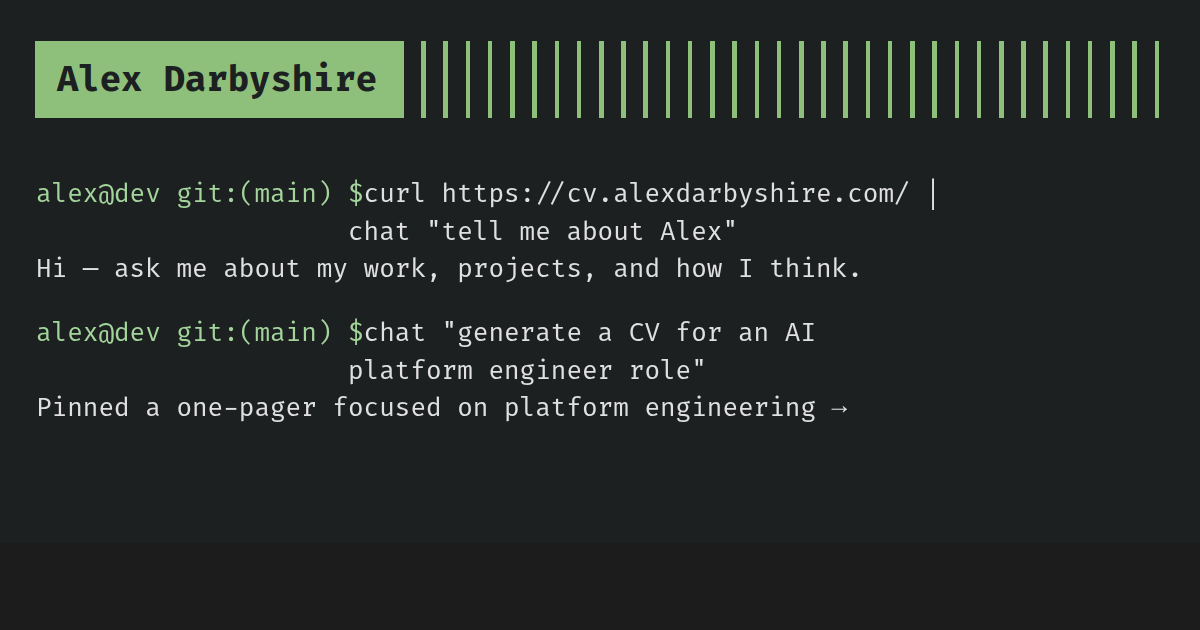
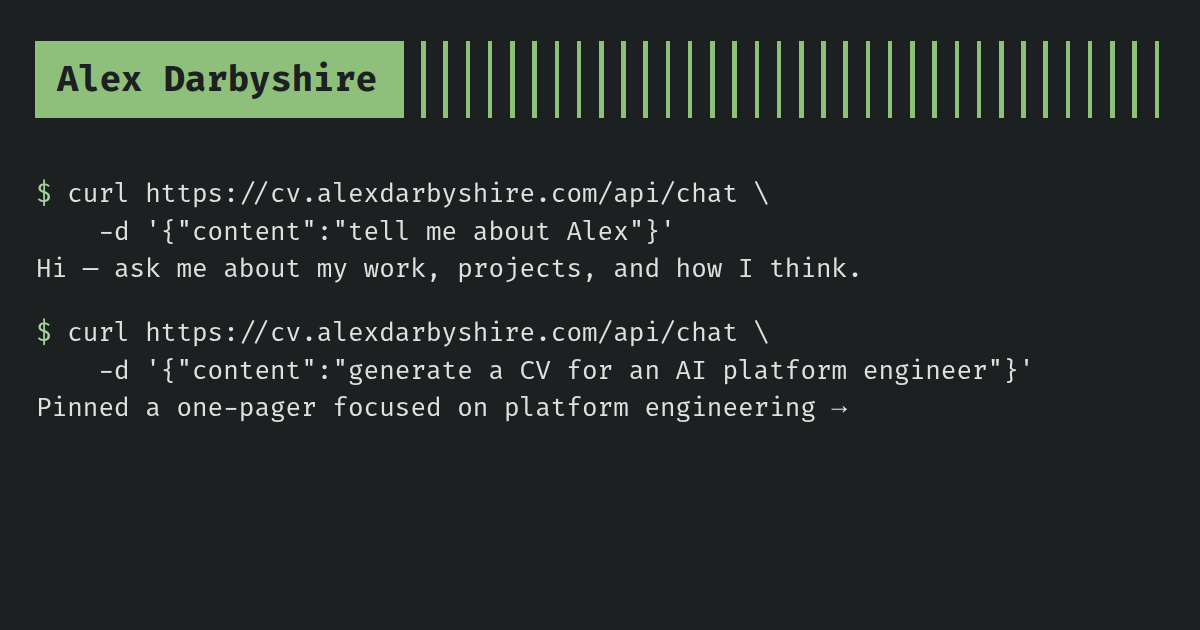
feat(brand): align tokens with blog + regen OG with real-shape curl examples (#44)
* feat(brand): align tokens with blog + nameplate-styled welcome heading

Comparison against alexdarbyshire.com showed cv-chat was reading as
chat-sdk default rather than a sibling of the blog: cooler near-white
foreground vs the blog's Gruvbox cream, slightly different sage-green
hue, and rounded-pill chrome where the blog is typewriter-sharp.

Three token updates and one structural touch:

- --foreground oklch(0.93 0.005 80) → oklch(0.894 0.057 89). Round-trips
  to #ebdbb2 (Gruvbox cream — the blog's body text colour).
- --primary / --ring / --sidebar-primary / --sidebar-ring / --chart-1
  oklch(0.82 0.1 140) → oklch(0.756 0.108 138). Round-trips to #8ec07c
  (the blog's nameplate + link green, also the colour the OG image
  uses).
- --radius 0.625rem → 0.125rem. Sharpens any component that resolves
  through --radius-{sm,md,lg,xl} (cards, dialog content, small chips)
  while leaving rounded-2xl/4xl/full vendor surfaces untouched.
- Greeting + Preview wrap the persona display name in a shadcn-token
  nameplate (bg-primary text-primary-foreground font-bold sharp
  corners), the single most blog-recognisable visual element. Just
  utility classes against the existing tokens — no bespoke CSS, no
  new components.

Verified at 1280×900 and 390×844 against the blog reference. Body
text reads warmer; nameplate matches the blog's "Alex Darbyshire"
plate; composer focus ring picks up the truer sage green via --ring.
[…]

diff --git a/theme/tokens.css b/theme/tokens.css
@@ -23,7 +23,7 @@
     "Fira Code", "JetBrains Mono", Monaco, Consolas, "Ubuntu Mono",
     ui-monospace, monospace;
 
-  --radius: 0.625rem;
+  --radius: 0.125rem;
   --background: oklch(0.985 0 0);
   --foreground: oklch(0.12 0 0);
   --card: oklch(1 0 0);
@@ -71,43 +71,44 @@
 }
 
 /*
- * Dark — the terminal palette. Background ≈ #1c1c1c slate; foreground a warm
- * off-white; primary/ring the sage green (#a3d49b) that the blog's nameplate
- * uses. Hover/accent stays neutral so the green only shows on actions and
- * focus — a single accent stays expressive when used sparingly.
+ * Dark — the terminal palette. Background ≈ #1c1c1c slate; foreground the
+ * Gruvbox cream (#ebdbb2) the blog renders body text in; primary/ring the
+ * sage green (#8ec07c) of the blog's nameplate and links. Hover/accent
+ * stays neutral so the green only shows on actions and focus — a single
+ * accent stays expressive when used sparingly.
  */
 .dark {
   --background: oklch(0.205 0 0);
-  --foreground: oklch(0.93 0.005 80);
+  --foreground: oklch(0.894 0.057 89);
   --card: oklch(0.235 0 0);
-  --card-foreground: oklch(0.93 0.005 80);
+  --card-foreground: oklch(0.894 0.057 89);
   --popover: oklch(0.235 0 0);
-  --popover-foreground: oklch(0.93 0.005 80);
-  --primary: oklch(0.82 0.1 140);
+  --popover-foreground: oklch(0.894 0.057 89);
+  --primary: oklch(0.756 0.108 138);
   --primary-foreground: oklch(0.18 0 0);
   --secondary: oklch(0.27 0 0);
   --secondary-foreground: oklch(0.78 0 0);
   --muted: oklch(0.18 0 0);
   --muted-foreground: oklch(0.62 0 0);
   --accent: oklch(0.27 0 0);
-  --accent-foreground: oklch(0.93 0.005 80);
+  --accent-foreground: oklch(0.894 0.057 89);
   --destructive: oklch(0.7 0.18 25);
   --border: oklch(0.27 0 0);
   --input: oklch(0.27 0 0);
-  --ring: oklch(0.82 0.1 140);
-  --chart-1: oklch(0.82 0.1 140);
+  --ring: oklch(0.756 0.108 138);
+  --chart-1: oklch(0.756 0.108 138);
   --chart-2: oklch(0.7 0.12 200);
   --chart-3: oklch(0.78 0.14 70);
   --chart-4: oklch(0.62 0.18 305);
   --chart-5: oklch(0.65 0.22 25);
   --sidebar: oklch(0.18 0 0);
   --sidebar-foreground: oklch(0.78 0 0);
-  --sidebar-primary: oklch(0.82 0.1 140);
+  --sidebar-primary: oklch(0.756 0.108 138);
   --sidebar-primary-foreground: oklch(0.18 0 0);
   --sidebar-accent: oklch(0.93 0.005 80 / 0.06);
-  --sidebar-accent-foreground: oklch(0.93 0.005 80);
+  --sidebar-accent-foreground: oklch(0.894 0.057 89);
   --sidebar-border: oklch(0.25 0 0);
-  --sidebar-ring: oklch(0.82 0.1 140);
+  --sidebar-ring: oklch(0.756 0.108 138);
 
   --shadow-card:
     inset 0 1px 0 oklch(1 0 0 / 0.04), 0 1px 2px oklch(0 0 0 / 0.2),

diff --git a/components/chat/preview.tsx b/components/chat/preview.tsx
@@ -25,7 +25,11 @@ export function Preview() {
       <div className="flex flex-1 flex-col items-center justify-center gap-6 px-8">
         <div className="max-w-md text-center">
           <h2 className="font-semibold text-xl tracking-tight">
-            Welcome to {persona.displayName}'s chat
+            Welcome to{" "}
+            <span className="inline-block rounded-[var(--radius)] bg-primary px-2.5 py-0.5 font-bold text-primary-foreground">
+              {persona.displayName}
+            </span>
+            's chat
           </h2>
           <p className="mt-2 text-foreground/75 text-sm">
             Ask about my work and projects, or have me generate a one-pager

diff --git a/components/chat/greeting.tsx b/components/chat/greeting.tsx
@@ -12,7 +12,11 @@ export const Greeting = () => {
         initial={{ opacity: 0, y: 10 }}
         transition={{ delay: 0.35, duration: 0.5, ease: ENTRANCE_EASE }}
       >
-        Welcome to {persona.displayName}'s chat
+        Welcome to{" "}
+        <span className="inline-block rounded-[var(--radius)] bg-primary px-3 py-1 font-bold text-primary-foreground">
+          {persona.displayName}
+        </span>
+        's chat
       </motion.div>
       <motion.div
         animate={{ opacity: 1, y: 0 }}
